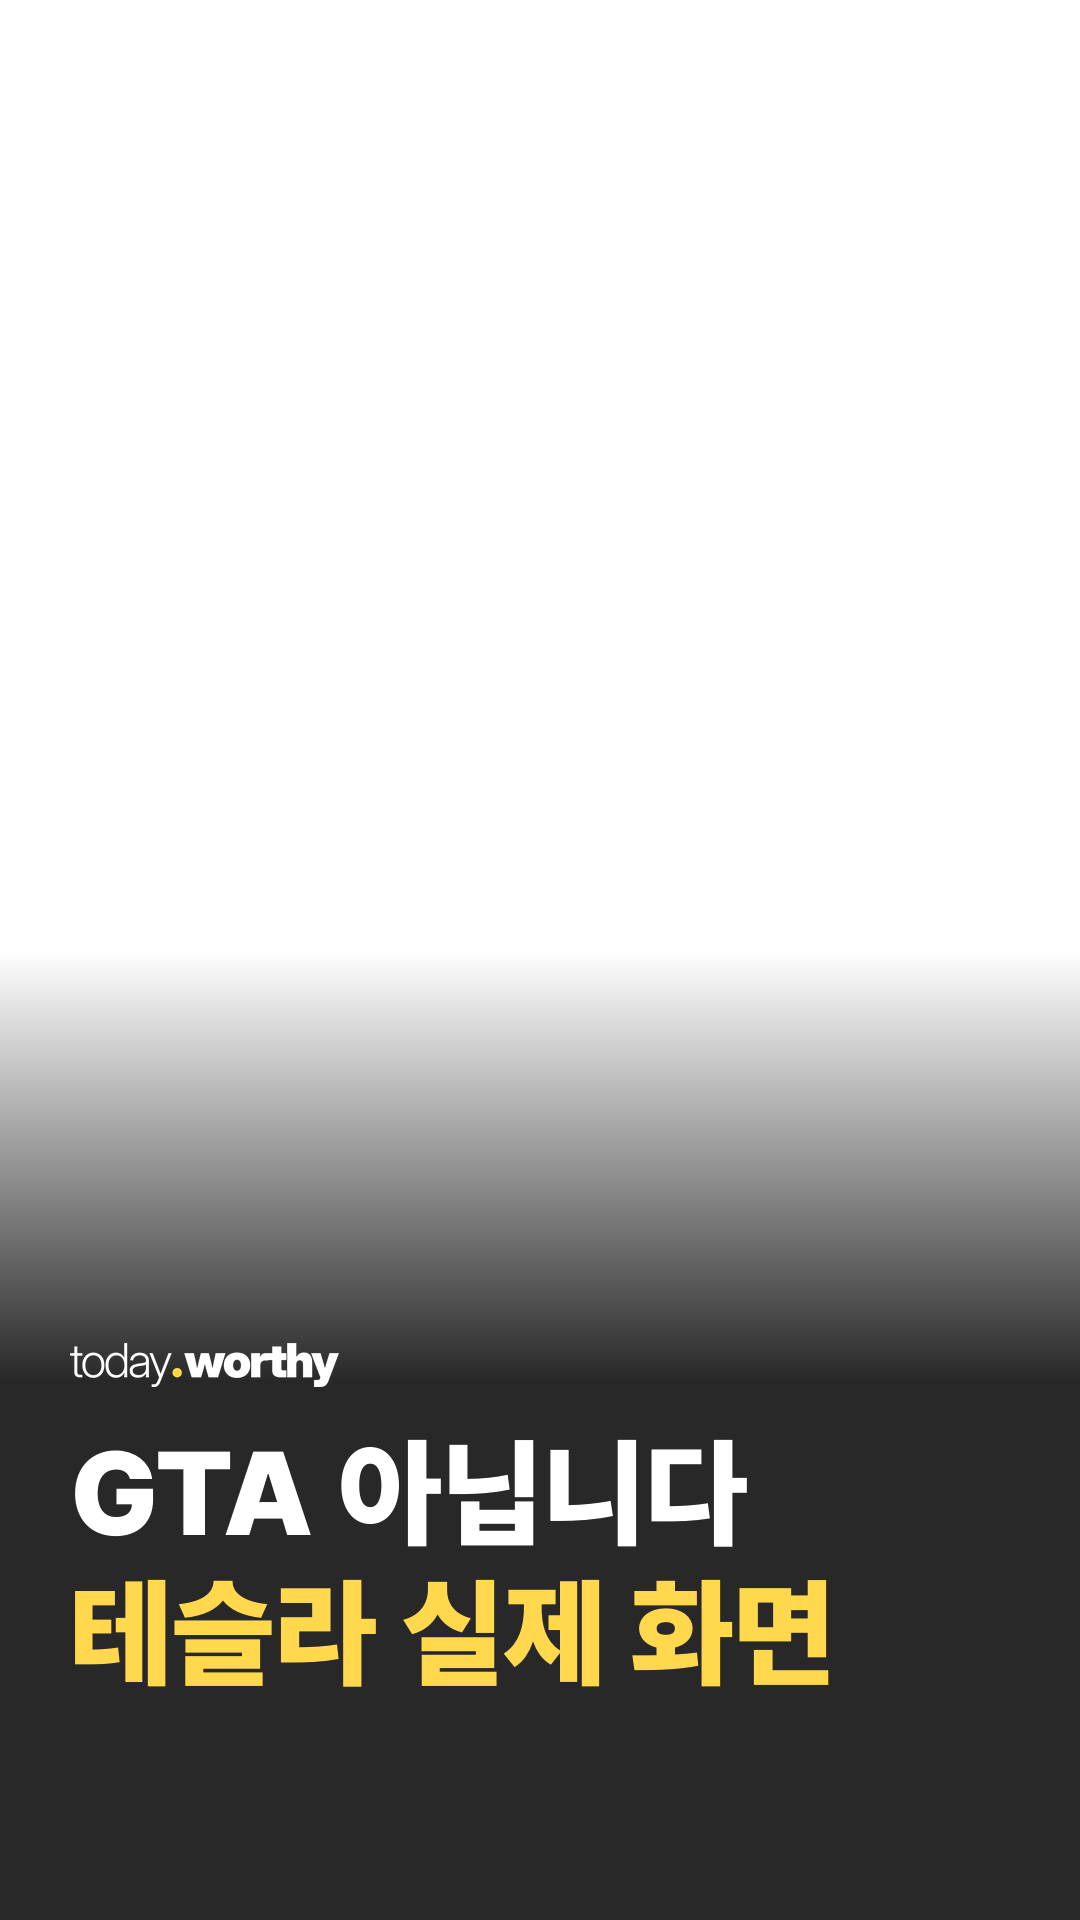
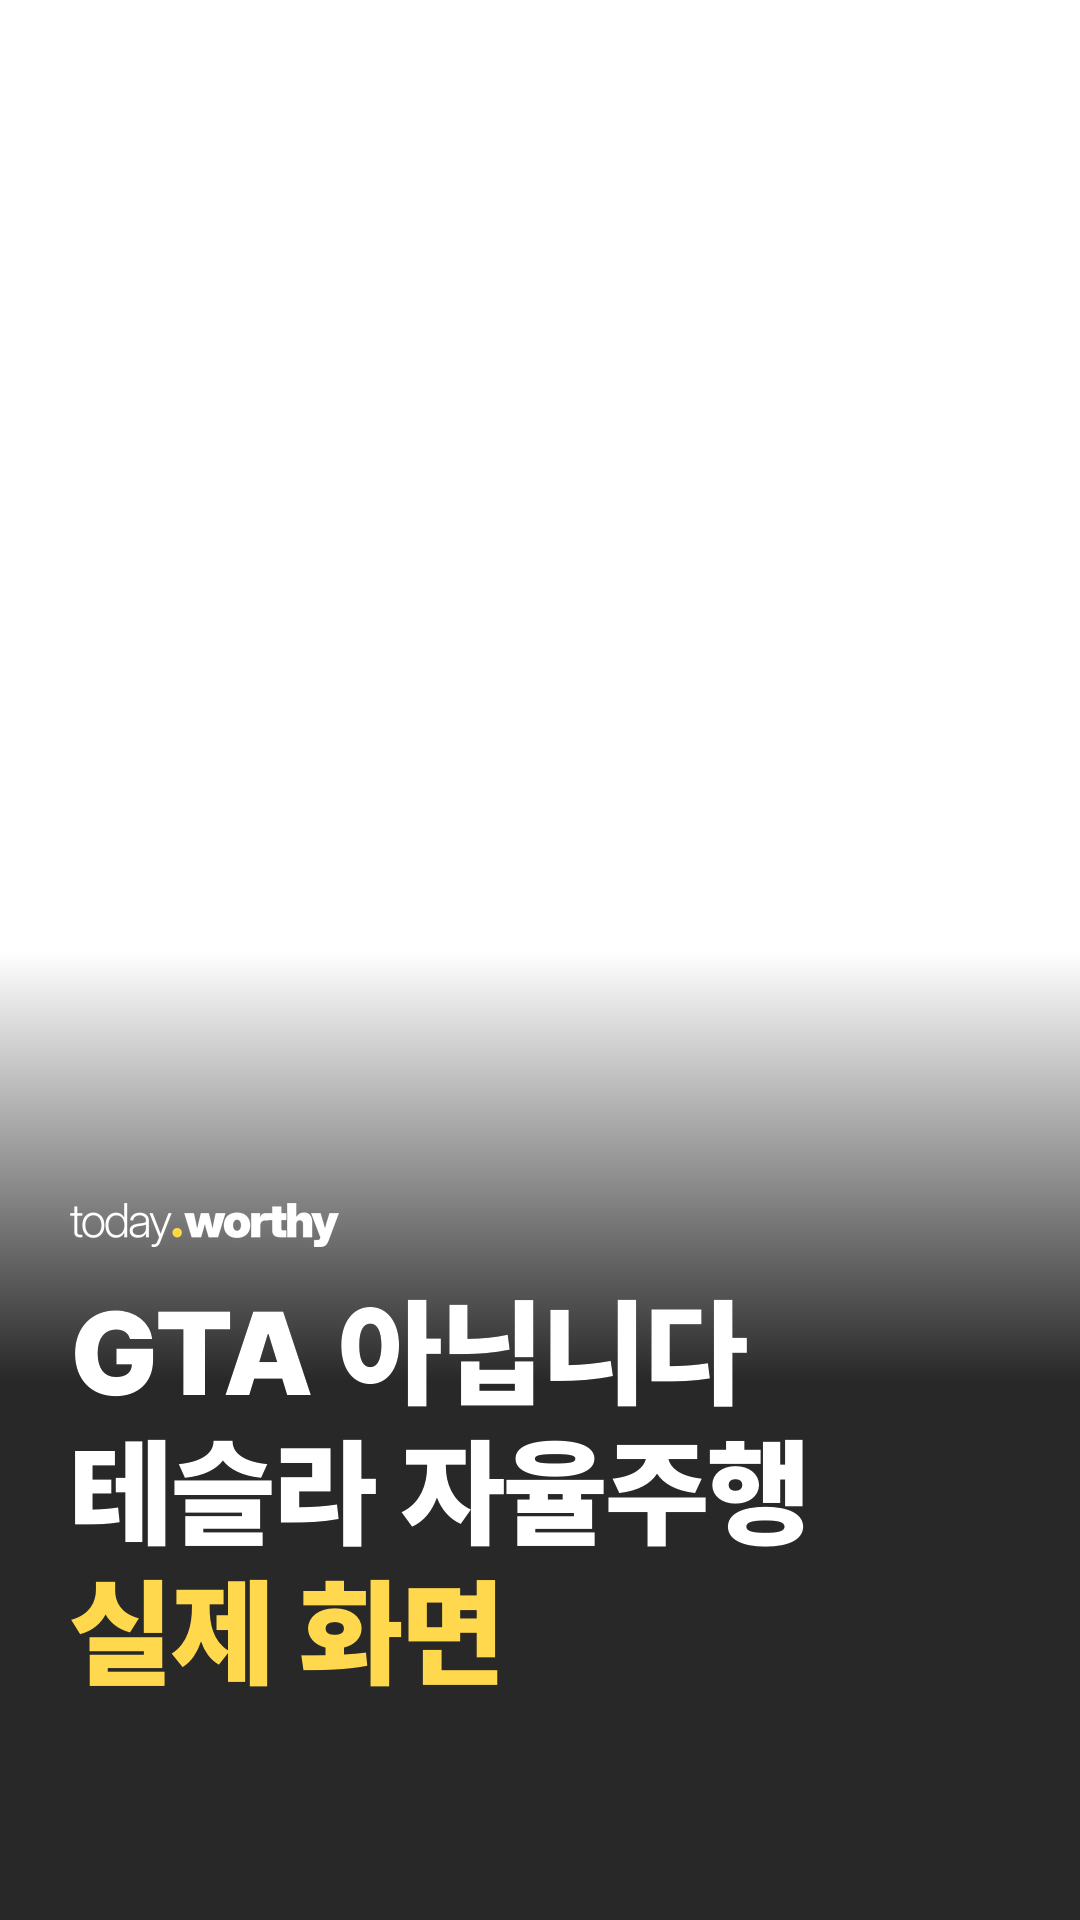
fsd15-reel: 커버 제목 영상 제목과 동일(GTA 아닙니다 / 테슬라 자율주행 / 실제 화면)
Claude-Session: https://claude.ai/code/session_01FGsw5QnWxFUsnopcB1Czie

Changed region(s): [[0.0611, 0.625, 0.7639, 0.875]]

diff --git a/media/20261122-fsd15-reel/build.py b/media/20261122-fsd15-reel/build.py
@@ -66,5 +66,5 @@ subprocess.run(['ffmpeg', '-v', 'error', '-y', '-f', 'concat', '-safe', '0', '-i
                 '-c:a', 'aac', '-b:a', '160k', '-t', f'{TOT:.2f}', '-movflags', '+faststart', f'{D}/reel.mp4'], check=True)
 subprocess.run(['ffmpeg', '-v', 'error', '-y', '-ss', '4.0', '-i', f'{VD}/v3.mp4', '-frames:v', '1', '-vf', WIDE, f'{R}/cov_band.jpg'], check=True)
 bg = Image.new('RGB', (1080, 1920), (0, 0, 0)); bg.paste(Image.open(f'{R}/cov_band.jpg'), (0, 330)); bg.save(f'{R}/cov_bg.jpg', quality=95)
-subprocess.run(['python3', 'scripts/reel_overlay.py', f'{D}/cand/overlay.png', 'GTA 아닙니다\n테슬라 실제 화면', '', f'{R}/cov_bg.jpg', f'{D}/reel_cover.jpg'], check=True)
+subprocess.run(['python3', 'scripts/reel_overlay.py', f'{D}/cand/overlay.png', 'GTA 아닙니다\n테슬라 자율주행\n실제 화면', '', f'{R}/cov_bg.jpg', f'{D}/reel_cover.jpg'], check=True)
 print('done', round(TOT, 1))
